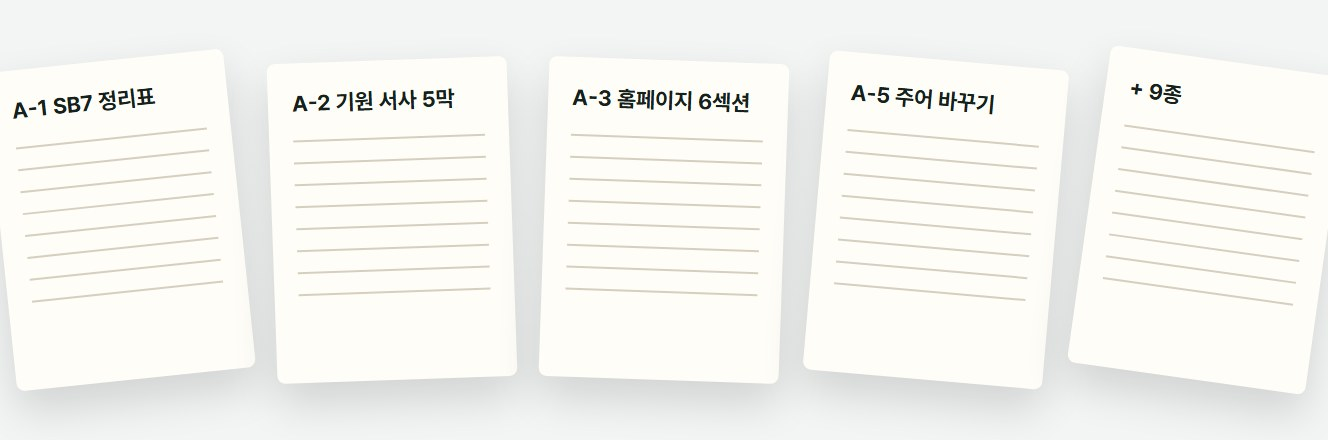
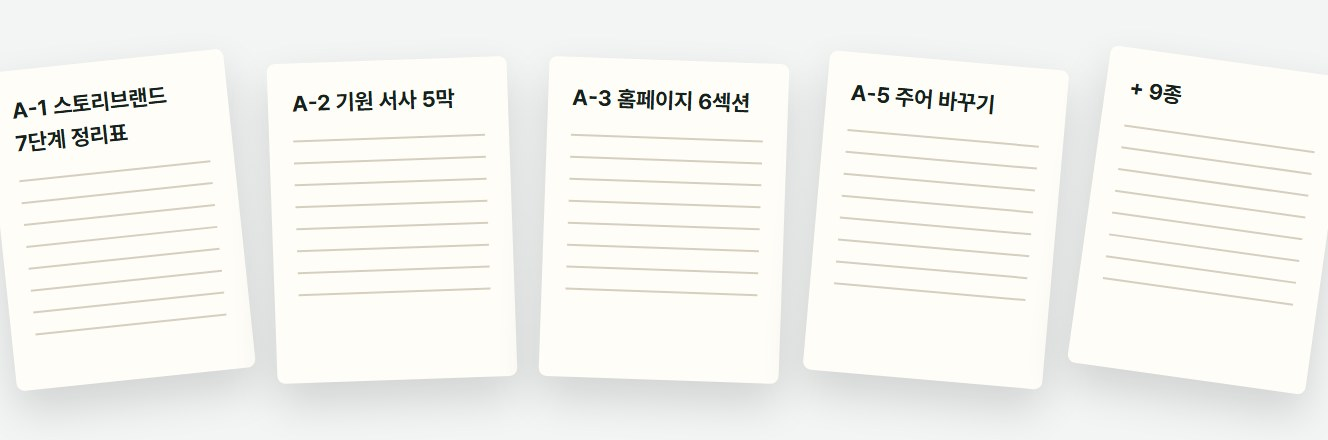
예시: SB7 표기를 '스토리브랜드 7단계'로, 대화창 답변자를 '저자'로

Changed region(s): [[0.0, 0.1773, 0.1852, 0.7386], [0.0309, 0.7386, 0.0926, 0.7682]]

diff --git a/docs/index.html b/docs/index.html
@@ -4,7 +4,7 @@
 <meta charset="UTF-8">
 <meta name="viewport" content="width=device-width, initial-scale=1.0">
 <title>스토리 빌더</title>
-<meta name="description" content="브랜드스크립트(SB7)를 채우면 와디즈 스토리 섹션이 차례대로 채워지고, 접힘선·필수 안내·위험 표현을 점검해 이미지와 텍스트 붙여넣기 순서로 내보내는 도구. 모든 작업은 브라우저 안에서만 이뤄집니다.">
+<meta name="description" content="브랜드스크립트(스토리브랜드 7단계)를 채우면 와디즈 스토리 섹션이 차례대로 채워지고, 접힘선·필수 안내·위험 표현을 점검해 이미지와 텍스트 붙여넣기 순서로 내보내는 도구. 모든 작업은 브라우저 안에서만 이뤄집니다.">
 <link rel="canonical" href="https://mc-jeon.github.io/story-builder/">
 <meta property="og:type" content="website">
 <meta property="og:site_name" content="스토리 빌더">
@@ -405,7 +405,7 @@
     </div>
 
     <div class="panel" data-pane="script" hidden>
-      <h2><span class="tag">2</span>브랜드스크립트 (SB7)</h2>
+      <h2><span class="tag">2</span>브랜드스크립트 (스토리브랜드 7단계)</h2>
       <p class="hint" style="margin-bottom:8px">고객이 주인공, 우리는 길을 안내하는 가이드입니다. 다 채운 뒤 위의 <b>스크립트로 채우기</b>를 누르면 비어 있는 블록에만 들어갑니다.</p>
       <div class="form" id="scriptForm"></div>
     </div>
@@ -893,7 +893,7 @@
     var need=[['checklist','문제(②)'],['compare','빌런(②)'],['authors','가이드(③)'],['steps','계획(④)'],['tiers|matrix|pricecard','리워드 구성(⑤)']];
     if(tplKind()==='book')need=[['authors','저자·권위'],['features','번호 특징'],['tiers|matrix|pricecard|parts','구성']];
     var nm=need.filter(function(n){return !n[0].split('|').some(has);});
-    L.push(!nm.length?['ok','SB7 흐름의 핵심 블록을 모두 갖췄습니다']:['warn','빠진 흐름: '+nm.map(function(m){return m[1];}).join(', ')]);
+    L.push(!nm.length?['ok','스토리브랜드 7단계 흐름의 핵심 블록을 모두 갖췄습니다']:['warn','빠진 흐름: '+nm.map(function(m){return m[1];}).join(', ')]);
     // 접힘선
     var fp=foldSrc('desktop'),els=secEls(),late=[];
     F().foldMust.forEach(function(m){var i=-1;B.forEach(function(b,j){if(i<0&&b.type===m[0])i=j;});if(i<0||!els[i])return;var bottom=els[i].offsetTop+els[i].offsetHeight;if(bottom>fp)late.push([m[1],B[i].id]);});
@@ -996,14 +996,14 @@
     S.card={cat:'ebook',slides:[AS+'slide1.jpg',AS+'slide2.jpg',AS+'slide3.jpg',AS+'slide4.jpg'],a1img:AS+'author1.jpg',a2img:AS+'author2.jpg',item:'살아있는 회사 소개서',one:'장점만 나열하던 홈페이지와 소개서를 고객이 끝까지 읽는 이야기로',
       target:'홈페이지·소개서 문장을 직접 쓰는 소상공인 대표님\n장점은 많은데 전달이 안 된다고 느끼는 분\n회사소개서·제안서를 맡은 중소기업 실무자',
       a1name:'작가 OOO (확인 필요)',a1role:'작가 · 문장',a1bio:'이력은 사실만 적으세요 (예시)',a2name:'개발자 OOO (확인 필요)',a2role:'개발자 · 도구',a2bio:'스토리 빌더 개발 (예시)',
-      offer:'이유 한 문장|우리 회사가 이 일을 하는 이유(Why) 한 줄 (Chapter 3)\n기원 서사 한 쪽|연혁은 남기고 의미를 더한 회사 이야기 (Chapter 4)\nSB7 정리표|고객이 주인공인 7단계 설계도 한 장 (Chapter 5~9)\n채널별 첫 화면|홈페이지·스마트플레이스·제안서 첫 문장 (Chapter 12)',
+      offer:'이유 한 문장|우리 회사가 이 일을 하는 이유(Why) 한 줄 (Chapter 3)\n기원 서사 한 쪽|연혁은 남기고 의미를 더한 회사 이야기 (Chapter 4)\n스토리브랜드 7단계 정리표|고객이 주인공인 7단계 설계도 한 장 (Chapter 5~9)\n채널별 첫 화면|홈페이지·스마트플레이스·제안서 첫 문장 (Chapter 12)',
       toc:'Chapter 1|회사 소개서의 부고장|당신의 소개서는 지금도 죽어가고 있다\nChapter 2|나르시시즘의 늪: 주어를 바꿔라|단 한 글자가 모든 것을 바꾼다\nChapter 3|기능이 아니라 신념을 팔아라|이유(Why)부터 말하기\nChapter 4|연혁의 재구성|팩트 나열에서 기원 서사로\nChapter 5|고객을 영웅으로 만드는 7단계 지도|혼란은 적이다\nChapter 6|빌런 만들기|우리 회사는 무엇과 싸우는가?\nChapter 7|가이드의 자격|공감과 권위의 밸런스 게임\nChapter 8|길을 보여 주고 문을 열어라|계획과 행동 촉구\nChapter 9|해피엔딩의 조건|실패를 예고하고 성공을 그려라\nChapter 10|[심층 해부] 죽은 텍스트 심폐소생술|네 회사의 전후 비교\nChapter 11|숫자를 이야기로 바꾸는 연금술|숫자와 문장 다듬기\nChapter 12|하나의 이야기, 여러 개의 얼굴|소개서·스마트플레이스·제안서·명함\nChapter 13|살아있는 소개서는 멈추지 않는다|90일 실행과 분기 점검\n부록|빈칸 워크시트 13종·점검표 3종·주의어표·90일 캘린더|',
-      parts:'A|전자책 PDF|5부 13장 + 부록 7개\nB|빈칸 워크시트 13종|SB7 정리표·기원 서사 5막·홈페이지 6섹션 등 (편집 가능한 파일)\nC|점검표 3종|자가진단·런칭·분기 점검\nD|금지어·업종별 주의어표|표시광고 위험 표현을 바꿔 쓰는 표\nE|90일 실행 캘린더|13주 할 일 표\nF|스토리 빌더 작업 파일|이 펀딩 페이지를 만든 작업 파일\nG|1:1 첨삭 1회|소개서 첫 화면 또는 홈페이지 첫 화면',
+      parts:'A|전자책 PDF|5부 13장 + 부록 7개\nB|빈칸 워크시트 13종|스토리브랜드 7단계 정리표·기원 서사 5막·홈페이지 6섹션 등 (편집 가능한 파일)\nC|점검표 3종|자가진단·런칭·분기 점검\nD|금지어·업종별 주의어표|표시광고 위험 표현을 바꿔 쓰는 표\nE|90일 실행 캘린더|13주 할 일 표\nF|스토리 빌더 작업 파일|이 펀딩 페이지를 만든 작업 파일\nG|1:1 첨삭 1회|소개서 첫 화면 또는 홈페이지 첫 화면',
       rewards:'전자책|A|35000|25000|500||책으로 먼저 읽고 싶은 분\n실습 키트|A+B+C+D+E|79000|59000|300|추천|읽으면서 바로 내 소개서를 고치고 싶은 분\n깊이 만나기|A+B+C+D+E+F+G|250000|180000|30||한 번은 전문가와 같이 고쳐 보고 싶은 분',
       campaign:'sammu',openDate:'2026-10-19',heroType:'question'};
     S.script={hook:'우리 홈페이지,\n5초 안에 답할 수 있나요?',want:'고객이 알아서 연락하는 홈페이지',ext:'홈페이지를 봐도 무엇을 해 주는 회사인지 모른다',int:'우리 진짜 괜찮은데 왜 몰라줄까 답답하다',phil:'좋은 회사가 말을 못 해 묻히면 안 된다',villain:'장점 나열',
       emp:'저희도 회사 소개서를 몇 번이고 다시 썼습니다. (예시 문장)',why:'좋은 회사가 고객의 언어로 말하게 돕고 싶습니다. (예시 문장)',
-      plan:'진단|5초 테스트와 주어 세기로 지금 상태 확인 (Chapter 1~2)\n설계|이유·기원 서사·SB7 정리표로 다시 쓰기 (Chapter 3~9)\n적용|소개서·홈페이지·스마트플레이스까지 한 이야기로, 90일 동안 (Chapter 10~13)',
+      plan:'진단|5초 테스트와 주어 세기로 지금 상태 확인 (Chapter 1~2)\n설계|이유·기원 서사·스토리브랜드 7단계 정리표로 다시 쓰기 (Chapter 3~9)\n적용|소개서·홈페이지·스마트플레이스까지 한 이야기로, 90일 동안 (Chapter 10~13)',
       fail:'이대로라면 내년에도\n같은 소개서를 돌립니다',success:'고객이 먼저 "아, 이 회사구나" 하고 연락합니다'};
     fill();
     Object.assign(byRole('hook'),{eb:'살아있는 회사 소개서 · 작가×개발자가 쓴 실전서',badges:'5부 13장, 빈칸 워크시트 13종, 스토리 빌더',align:'l',img:AS+'hero.jpg',ov:0});
@@ -1022,7 +1022,7 @@
     Object.assign(byRole('toc'),{title:'5부 13장과 부록 7개',imgs:[AS+'toc1.jpg',AS+'toc2.jpg']});
     Object.assign(byRole('preview'),{title:'미리 펼쳐 보기',items:'STEP 1|5초 테스트|Chapter 1, 타이머 하나로 내 소개서를 진단합니다\nSTEP 2|주어 바꾸기 4공식|Chapter 2, 같은 사실을 고객의 말로 바꿉니다\nSTEP 3|빈칸 워크시트|부록 A, 따라 채우면 소개서 뼈대가 나옵니다',imgs:[AS+'pv1.jpg',AS+'pv2.jpg',AS+'pv3.jpg']});
     Object.assign(byRole('media'),{what:'빈칸 워크시트(부록 A-5)에 바꾼 첫 문장을 적는 장면 GIF (약 6초, 무음 반복)',file:'워크시트_채우기.gif',img:AS+'worksheet.gif'});
-    Object.assign(byRole('objection'),{look:'chat',anim:true,maker:'작가×개발자',title:'사러 오기 전에\n먼저 물어보신 것들',items:'글을 잘 못 쓰는데요?|문장력이 아니라 말하는 순서를 바꾸는 책입니다. 빈칸 워크시트를 따라 채우면 됩니다\n바빠서 읽을 시간이 없어요.|장마다 미션은 5~10분이면 끝납니다. 하루 한 장씩이면 충분해요\n우리 업종도 되나요?|식품·제조·서비스·1인 기업 사례가 나오고, 부록 D에 12개 업종 적용표가 있습니다\n워크시트는 PDF로만 주나요?|아니요, 바로 고쳐 쓸 수 있는 파일로 드립니다 (실습 키트부터)'});
+    Object.assign(byRole('objection'),{look:'chat',anim:true,maker:'저자',title:'사러 오기 전에\n먼저 물어보신 것들',items:'글을 잘 못 쓰는데요?|문장력이 아니라 말하는 순서를 바꾸는 책입니다. 빈칸 워크시트를 따라 채우면 됩니다\n바빠서 읽을 시간이 없어요.|장마다 미션은 5~10분이면 끝납니다. 하루 한 장씩이면 충분해요\n우리 업종도 되나요?|식품·제조·서비스·1인 기업 사례가 나오고, 부록 D에 12개 업종 적용표가 있습니다\n워크시트는 PDF로만 주나요?|아니요, 바로 고쳐 쓸 수 있는 파일로 드립니다 (실습 키트부터)'});
     Object.assign(byRole('plan'),{title:'세 단계로 다시 씁니다'});
     Object.assign(byRole('fit'),{no:'디자인만 바꾸고 싶은 분\n문장을 대신 써 줄 대행사를 찾는 분'});
     Object.assign(byRole('benefit'),{title:'삼무서점에서만',items:'1:1 첨삭|깊이 만나기 리워드 30명 한정 (펀딩 기간에만)\n스토리 빌더 작업 파일|이 펀딩 페이지를 만든 파일을 그대로 드립니다 (깊이 만나기)\n이름이 남는 개정판|첨삭 사례를 동의받아 실으면 상호를 책에 남겨 드립니다 (선택)'});

diff --git a/assets-src/sample/make.py b/assets-src/sample/make.py
@@ -102,7 +102,7 @@ HERO_CSS = '''
 .glow{position:absolute;left:330px;top:30px;width:520px;height:520px;border-radius:50%;background:radial-gradient(circle,rgba(240,195,90,.16),transparent 65%)}
 '''
 HERO = '''<div class="h"><div class="glow"></div>
-<div class="tab"><div class="sc"><span class="tag">부록 A-1</span><h5>SB7 정리표</h5>
+<div class="tab"><div class="sc"><span class="tag">부록 A-1</span><h5>스토리브랜드 7단계 정리표</h5>
 <div class="r"><b>① 주인공이 원하는 것</b><span class="fill">고객이 알아서 연락하는 홈페이지</span><div class="ln"></div></div>
 <div class="r"><b>② 빌런</b><span class="fill">장점 나열</span><div class="ln"></div></div>
 <div class="r"><b>③ 공감 한 문장</b><div class="ln"></div><div class="ln"></div></div>
@@ -147,7 +147,7 @@ s2 = '''<div class="s l" style="padding:0 80px;flex-direction:column;align-items
 shot('slide2', 1200, 675, s2, SL_CSS, scale=1, q=88)
 
 PARTS_TOC = [('제1부', '진단', '왜 아무도 읽지 않는가', '1~2'), ('제2부', '재료', '이유와 기원 서사', '3~4'),
-             ('제3부', '설계', '고객을 영웅으로 만드는 SB7', '5~9'), ('제4부', '변신', '전후 비교와 숫자·문장', '10~11'),
+             ('제3부', '설계', '고객이 영웅인 스토리브랜드 7단계', '5~9'), ('제4부', '변신', '전후 비교와 숫자·문장', '10~11'),
              ('제5부', '확장', '여러 채널, 90일 실행', '12~13')]
 s3 = '''<div class="s d" style="padding:0 80px"><div style="width:380px"><div class="k">5부 13장 + 부록 7</div>
 <div class="H" style="font-size:54px">진단부터<br>90일 실행까지</div><div class="P" style="font-size:22px">읽는 순서대로 내 소개서가<br>한 장씩 고쳐집니다.</div></div>
@@ -262,7 +262,7 @@ shot('pv2', 716, 420, '''<div class="v"><div class="page"><div class="ch">CHAPTE
 <div style="text-align:center;color:#2f6b57;font-size:20px;font-weight:900;margin:6px 0">↓</div>
 <div style="background:#1d2b26;color:#fff;border-radius:10px;padding:14px;font-weight:700;font-size:13px">20년 동안 쌓인 신고 경험으로, 사장님이 <span class="y">남들이 겪은 실수를 되풀이하지 않게</span> 챙깁니다.</div>
 <p style="font-size:10.5px;color:#8a8f88;margin-top:12px">정진 세무회계 · 책 속 가상 사례</p></div></div>''', PV_CSS, q=88)
-shot('pv3', 716, 420, '''<div class="v"><div class="page" style="width:620px;height:380px"><div class="ch">부록 A-1 · 빈칸 워크시트</div><h4 class="serif" style="margin-bottom:10px">SB7 정리표: 우리 회사 설계도 한 장</h4>
+shot('pv3', 716, 420, '''<div class="v"><div class="page" style="width:620px;height:380px"><div class="ch">부록 A-1 · 빈칸 워크시트</div><h4 class="serif" style="margin-bottom:10px">스토리브랜드 7단계 정리표: 우리 회사 설계도 한 장</h4>
 <table><tr><th style="width:150px">단계</th><th>채울 질문</th><th style="width:170px">답</th></tr>
 <tr><td><b>① 주인공</b></td><td>우리 고객은 누구이고, 원하는 단 한 가지는 무엇입니까?</td><td><span class="ln"></span></td></tr>
 <tr><td><b>② 난관</b></td><td>외적·내적·철학적 문제, 빌런은 무엇입니까?</td><td><span class="ln"></span></td></tr>
@@ -281,7 +281,7 @@ def sheet(t, w=120, h=160, rot=0, extra=''):
 shot('pA', 664, 220, '<div class="b" style="background:#1d2b26"><img src="%s" style="height:180px;box-shadow:0 14px 30px rgba(0,0,0,.5);transform:rotate(-3deg)">'
      '<div style="color:#fff;margin-left:20px"><div style="font-size:30px;font-weight:900">PDF 1권</div><div style="font-size:15px;opacity:.75;margin-top:6px;line-height:1.6">5부 13장 + 부록 A~G<br>태블릿·PC·휴대폰에서 읽기</div></div></div>' % url('cover.jpg'), PT_CSS, q=88)
 shot('pB', 664, 220, '<div class="b">%s</div>' % ''.join(sheet(t, rot=r) for t, r in
-     [('A-1 SB7 정리표', -6), ('A-2 기원 서사 5막', -2), ('A-3 홈페이지 6섹션', 2), ('A-5 주어 바꾸기', 5), ('+ 9종', 8)]), PT_CSS, q=88)
+     [('A-1 스토리브랜드 7단계 정리표', -6), ('A-2 기원 서사 5막', -2), ('A-3 홈페이지 6섹션', 2), ('A-5 주어 바꾸기', 5), ('+ 9종', 8)]), PT_CSS, q=88)
 shot('pC', 664, 220, '<div class="b">%s</div>' % ''.join(
      '<div class="mini" style="width:170px;height:170px"><b>%s</b>%s</div>' % (t, ''.join('<div style="font-size:9.5px;margin-top:5px">□ %s</div>' % i for i in it)) for t, it in
      [('B-1 자가진단표 (40점)', ['첫 문장이 고객의 문제로 시작', "'고객'이 '우리'보다 많다", '5초 안에 무엇을 해 주는지', '분명한 빌런이 있다']),
